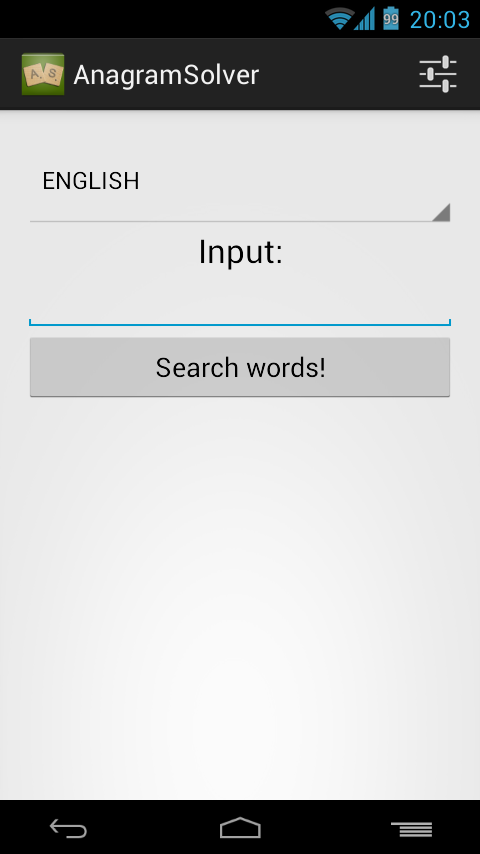
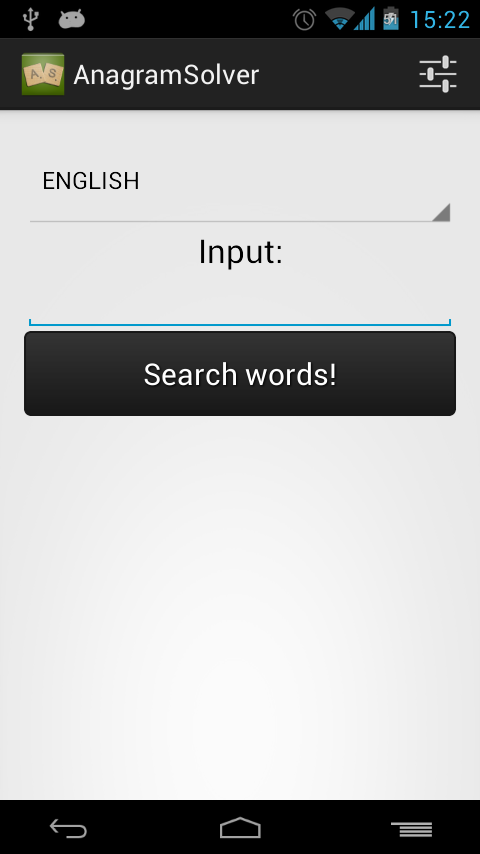
fixed spinner not keeping last choice and added search for subsets as well

diff --git a/src/com/as/anagramsolver/DictionaryDBCreator.java b/src/com/as/anagramsolver/DictionaryDBCreator.java
@@ -5,7 +5,6 @@ import java.io.IOException;
 import java.io.InputStreamReader;
 import java.io.UnsupportedEncodingException;
 import java.text.Normalizer;
-import java.util.ArrayList;
 import java.util.HashSet;
 import java.util.Set;
 import java.util.regex.Pattern;
@@ -137,12 +136,38 @@ public class DictionaryDBCreator extends SQLiteOpenHelper {
 		db.endTransaction();
 	}
 	
-	/** Returns an ArrayList<String> with all the words that can be formed from the given letters in value
+	/** Returns a Set<String> with all the words that can be formed from the given letters in value and from all the subsets of those letters
 	 * @param dict The dictionary in which to search for matches
 	 * @param value The letters to search for anagrams
 	 * @return
 	 */
-	public ArrayList<String> getMatchingAnagrams(DICTIONARY dict, String value) {
+	public Set<String> getAllMatchingAnagrams(DICTIONARY dict, String value) {
+			int numOfSubsets = 1 << value.length(); 
+			Set<String> matchingWords = new HashSet<String>();
+			
+			for (int i = 0; i < numOfSubsets; i++) {
+				int pos = value.length() - 1;
+				int bitmask = i;
+	
+				StringBuilder str = new StringBuilder("");
+				while (bitmask > 0) {
+					if ((bitmask & 1) == 1)
+						str.append(value.charAt(pos));
+					bitmask >>= 1;
+					pos--;
+				}
+				if(str.length()>3)
+					matchingWords.addAll( getMatchingAnagrams(dict, str.toString()) );
+			}
+			return matchingWords;
+	}
+	
+	/** Returns a Set<String> with all the words that can be formed from the given letters in value
+	 * @param dict The dictionary in which to search for matches
+	 * @param value The letters to search for anagrams
+	 * @return
+	 */
+	public Set<String> getMatchingAnagrams(DICTIONARY dict, String value) {
 		char[] l = value.toCharArray();
 		java.util.Arrays.sort(l);
 		
@@ -153,16 +178,16 @@ public class DictionaryDBCreator extends SQLiteOpenHelper {
 	    String selectQuery = "SELECT  * FROM " + dict.toString() + " WHERE aword=\"" +  deaccented +"\"";
 	    Cursor cursor = getReadableDatabase().rawQuery(selectQuery, null);
 	    
-	    ArrayList<String> matchingWords = new ArrayList<String>();
+	    Set<String> matchingWords = new HashSet<String>();
 	    
-	    // looping through all results and adding to list
-	    if (cursor.moveToFirst()) {
-	        do {
-	        	matchingWords.add(cursor.getString(0));
-	        } while (cursor.moveToNext());
-	    }
-	    
-	    return matchingWords;
+		// looping through all results and adding to list
+		if (cursor.moveToFirst()) {
+			do {
+				matchingWords.add(cursor.getString(0));
+			} while (cursor.moveToNext());
+		}
+
+		return matchingWords;
 	}
 	
 	/** Returns true if the table with the given name exists in the database, false otherwise

diff --git a/src/com/as/anagramsolver/StartPage.java b/src/com/as/anagramsolver/StartPage.java
@@ -1,6 +1,5 @@
 package com.as.anagramsolver;
 
-import java.util.ArrayList;
 import java.util.Arrays;
 import java.util.HashSet;
 import java.util.Set;
@@ -117,7 +116,7 @@ public class StartPage extends Activity {
 	private int getSelectedLanguage(String[] values) {
 		int i=0;
 		for(; i<values.length; i++){
-				if(values[i].equals(languageSelected))
+				if(values[i].equalsIgnoreCase(languageSelected.toString()))
 					return i;
 		}
 		return 0;
@@ -145,13 +144,14 @@ public class StartPage extends Activity {
     	String inLetters = input.getText().toString().trim();
     	
     	if (dbCreator!=null) {
-    		ArrayList<String> words = dbCreator.getMatchingAnagrams(languageSelected, inLetters);
+    		Set<String> w = dbCreator.getAllMatchingAnagrams(languageSelected, inLetters);
+    		String[] words = w.toArray(new String[w.size()]);
     		
 	        TextView output = (TextView) findViewById(R.id.results);
-	        StringBuilder str = new StringBuilder("Possible results: " + words.size() + "\n");
-
-	    	for(int i=0; i<words.size() && i<1000; i++)
-	    		str.append(words.get(i)+"\n"); 
+	        StringBuilder str = new StringBuilder("Matches (" + words.length + "):\n");
+	        
+	    	for(int i=0; i<words.length; i++)
+	    		str.append(words[i]+"\n"); 
 	    	output.setText(str.toString());
     	}
     }

diff --git a/gen/com/as/anagramsolver/R.java b/gen/com/as/anagramsolver/R.java
@@ -24,8 +24,10 @@ public final class R {
         public static final int activity_vertical_margin=0x7f070001;
     }
     public static final class drawable {
-        public static final int ic_launcher=0x7f020000;
-        public static final int ic_settings=0x7f020001;
+        public static final int btn_black=0x7f020000;
+        public static final int btn_white=0x7f020001;
+        public static final int ic_launcher=0x7f020002;
+        public static final int ic_settings=0x7f020003;
     }
     public static final class id {
         public static final int input=0x7f0b0002;
@@ -89,6 +91,7 @@ public final class R {
  All customizations that are NOT specific to a particular API-level can go here. 
          */
         public static final int AppTheme=0x7f090001;
+        public static final int ButtonText=0x7f090002;
     }
     public static final class xml {
         public static final int settings=0x7f040000;

diff --git a/README.md b/README.md
@@ -8,12 +8,13 @@ It works by normalizing both the letters it's searching and the words in the dic
 
 For example if you search an anagram for the letters "nsake" it will convert it to "aekns" and compare it to the sorted words in the English table. There it will find 2 instances of aekns. One for the word "snake" and one for the word "sneak" and it will return them. 
 
-This of course results in a bit bigger database (depending on the dictionaries size). Alternatively radix tries could be used to load each dictionary and its normalized version but when i tested some implementations of radix tries my device would eventually run out of memory for the app. So a database was a 'lighter' choice. 
+This of course results in a bit bigger database (depending on the dictionaries size). Alternatively radix tries could be used to load each dictionary and its normalized version but when i tested some implementations of radix tries my device would eventually run out of memory for the app. So a database was a 'lighter' choice. I also tested a solution where i copied the databases on the first run instead of creating them from scratch but that took double the storage space in the device and the speed improvement on the first run wasn't that significant.
+
 
 ##Screenshots
 
-![Screenshot1](https://raw.github.com/uberspot/AnagramSolver/master/screenshot1.png)
-![Screenshot2](https://raw.github.com/uberspot/AnagramSolver/master/screenshot2.png)
+![Screenshot1](https://raw.github.com/uberspot/AnagramSolver/master/screenshot1.jpg)
+![Screenshot2](https://raw.github.com/uberspot/AnagramSolver/master/screenshot2.jpg)
 
 ##License
 
